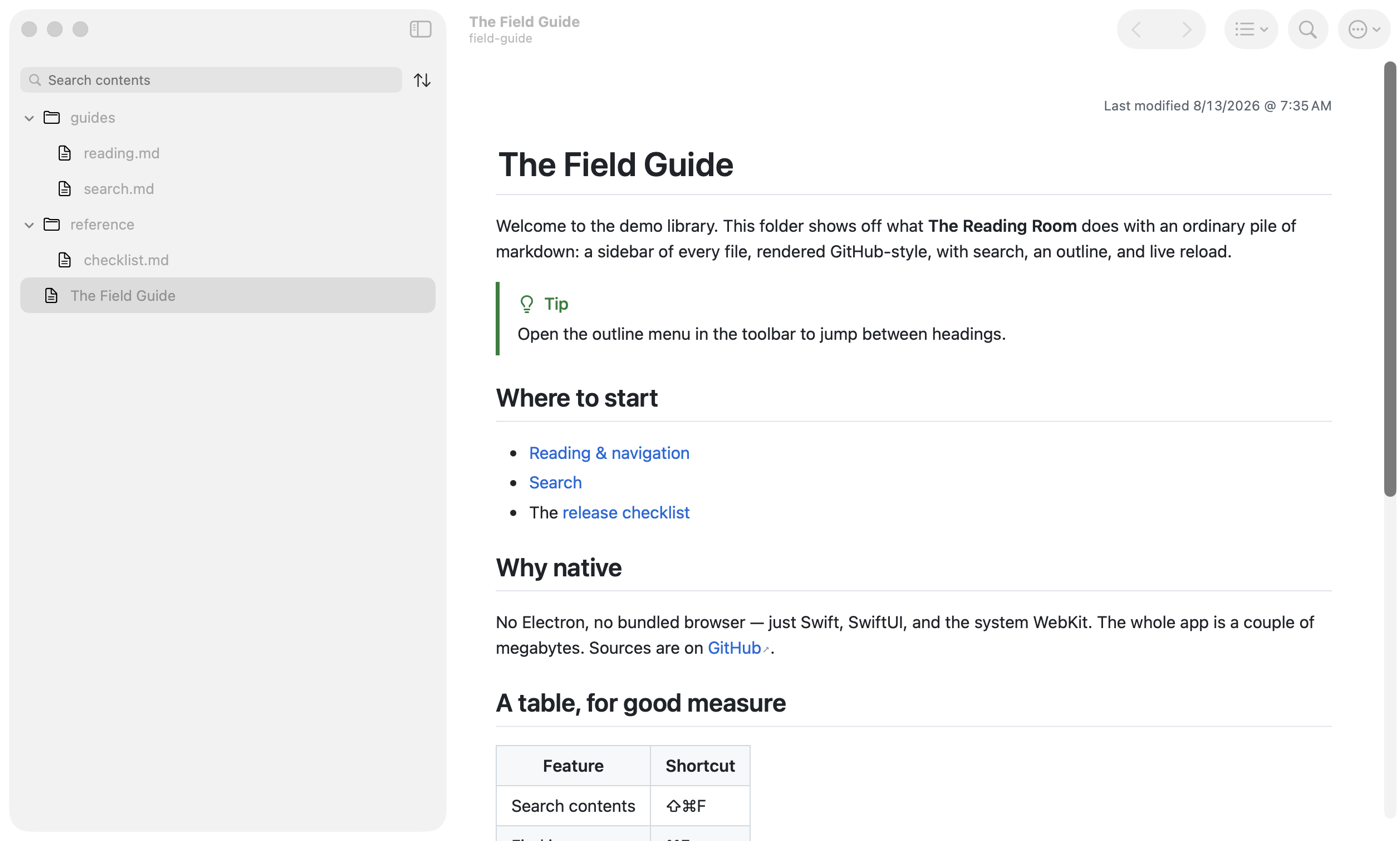
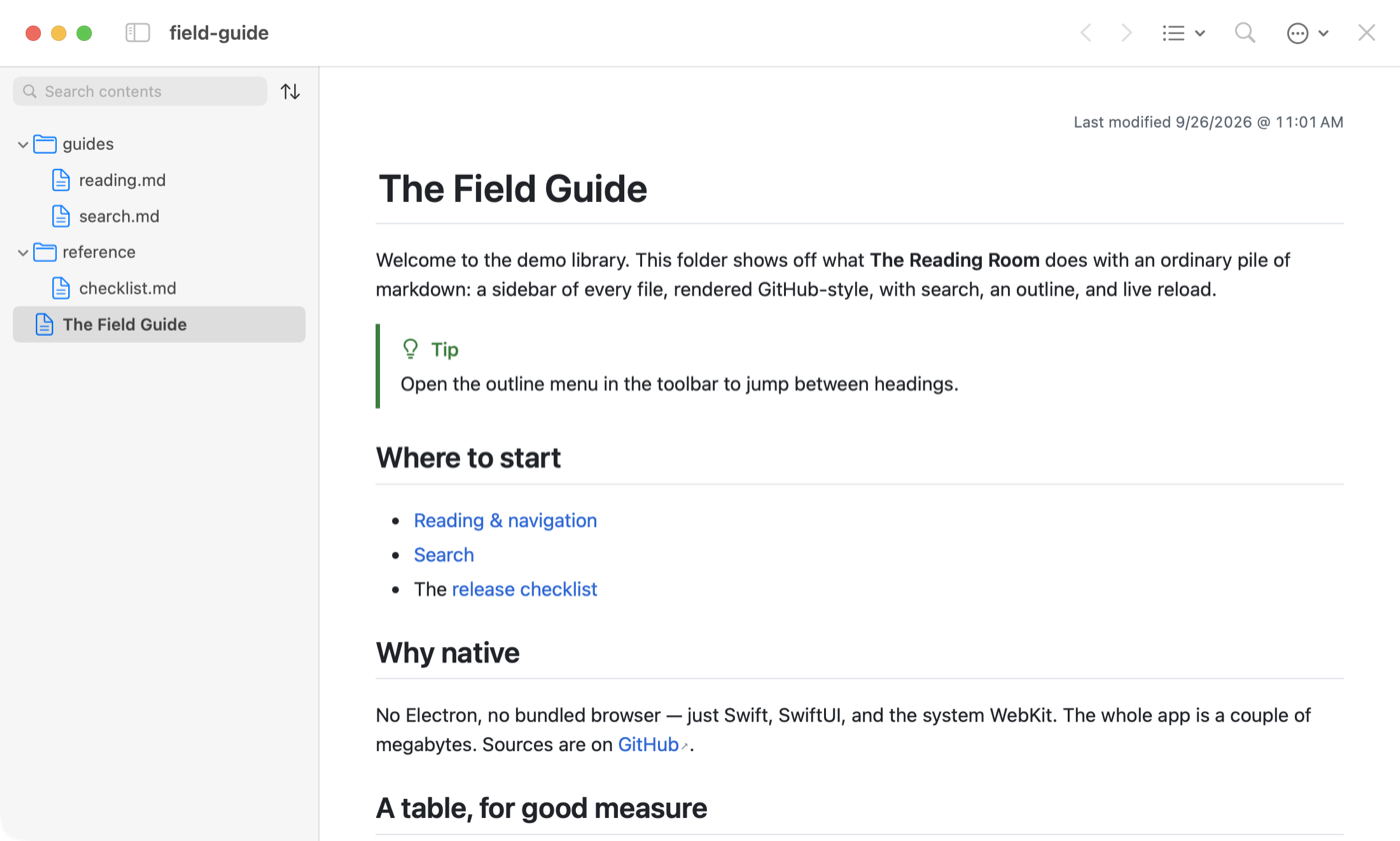
Title the window after its folder, across the full width
The title bar said "The Reading Room" (or went stale on the fallback) and
sat over the document alone, with the sidebar running up beside it. It
now names the folder the window has open, and the one title-bar row, with
the toolbar in it, spans the whole window; the sidebar starts below it.

NavigationSplitView always runs its sidebar up into the title bar, so the
window lays out the sidebar itself: a fixed-width column with the sidebar
material, a divider you drag to resize it (180–460 pt, remembered between
launches), and a toolbar button and View ▸ Hide Sidebar (⌃⌘S) to hide it.
HSplitView would have done too, but it ignores the sidebar's ideal width.

Back and forward join the other buttons on the right. The docs screenshot
shows the new title bar.

Bumps the bundle version to 1.3.

diff --git a/Sources/TheReadingRoom/ContentView.swift b/Sources/TheReadingRoom/ContentView.swift
@@ -5,16 +5,25 @@ import TheReadingRoomCore
 struct ContentView: View {
     @EnvironmentObject var model: AppModel
     @State private var isDropTargeted = false
+    /// Shared across windows, and remembered between launches.
+    @AppStorage("sidebarWidth") private var sidebarWidth = 250.0
 
     var body: some View {
-        NavigationSplitView {
-            Sidebar()
-                .navigationSplitViewColumnWidth(min: 180, ideal: 250, max: 460)
-        } detail: {
+        // Not a NavigationSplitView: that runs the sidebar up into the title bar,
+        // leaving the title and toolbar over the document alone. Laid out by
+        // hand, the title bar spans the whole window. (HSplitView would do the
+        // same, but it ignores the sidebar's ideal width.)
+        HStack(spacing: 0) {
+            if model.sidebarVisible {
+                Sidebar()
+                    .frame(width: sidebarWidth)
+                    .background(SidebarMaterial())
+                SidebarDivider(width: $sidebarWidth)
+            }
             detail
+                .frame(maxWidth: .infinity, maxHeight: .infinity)
         }
-        .navigationTitle(model.titleOfSelection ?? "The Reading Room")
-        .navigationSubtitle(model.subtitle)
+        .navigationTitle(model.root?.lastPathComponent ?? "")
         .toolbar { toolbarContent }
         .dropDestination(for: URL.self) { urls, _ in
             guard let url = urls.first else { return false }
@@ -91,7 +100,20 @@ struct ContentView: View {
 
     @ToolbarContentBuilder
     private var toolbarContent: some ToolbarContent {
+        ToolbarItemGroup(placement: .navigation) {
+            Button {
+                model.sidebarVisible.toggle()
+            } label: {
+                Image(systemName: "sidebar.left")
+            }
+            // Otherwise VoiceOver reads the symbol's name, "split view horizontally left".
+            .accessibilityLabel(model.sidebarVisible ? "Hide Sidebar" : "Show Sidebar")
+            .help(model.sidebarVisible ? "Hide Sidebar (⌃⌘S)" : "Show Sidebar (⌃⌘S)")
+        }
+
         ToolbarItemGroup {
+            Spacer()
+
             ControlGroup {
                 Button {
                     model.webViewController.goBack()
@@ -109,10 +131,6 @@ struct ContentView: View {
                 .disabled(!model.webViewController.canGoForward)
                 .help("Forward (⌘])")
             }
-        }
-
-        ToolbarItemGroup {
-            Spacer()
 
             Menu {
                 OutlineMenuItems(model: model)
@@ -160,6 +178,56 @@ struct ContentView: View {
             .disabled(model.selection == nil)
             .help("Close File")
         }
+    }
+}
+
+// MARK: - Sidebar background
+
+/// The translucent sidebar material. A NavigationSplitView supplies this on its
+/// own; the plain split view the window uses instead does not.
+private struct SidebarMaterial: NSViewRepresentable {
+    func makeNSView(context: Context) -> NSVisualEffectView {
+        let view = NSVisualEffectView()
+        view.material = .sidebar
+        view.blendingMode = .behindWindow
+        view.state = .followsWindowActiveState
+        return view
+    }
+
+    func updateNSView(_ view: NSVisualEffectView, context: Context) {}
+}
+
+/// The line between the sidebar and the document; drag it to resize the sidebar.
+private struct SidebarDivider: View {
+    @Binding var width: Double
+    @State private var widthAtDragStart: Double?
+
+    private static let widths = 180.0...460.0
+
+    var body: some View {
+        Divider()
+            .overlay {
+                // A grab area wider than the one-point line itself.
+                Color.clear
+                    .frame(width: 8)
+                    .contentShape(.rect)
+                    .onHover { inside in
+                        if inside { NSCursor.resizeLeftRight.push() } else { NSCursor.pop() }
+                    }
+                    .gesture(
+                        // Global coordinates, since the divider moves as it's dragged.
+                        DragGesture(minimumDistance: 1, coordinateSpace: .global)
+                            .onChanged { drag in
+                                let start = widthAtDragStart ?? width
+                                widthAtDragStart = start
+                                width = min(
+                                    max(start + drag.translation.width, Self.widths.lowerBound),
+                                    Self.widths.upperBound
+                                )
+                            }
+                            .onEnded { _ in widthAtDragStart = nil }
+                    )
+            }
     }
 }
 

diff --git a/Sources/TheReadingRoom/AppModel.swift b/Sources/TheReadingRoom/AppModel.swift
@@ -16,6 +16,7 @@ final class AppModel: ObservableObject {
     @Published var findText = ""
     /// Toggled to move keyboard focus into the sidebar search field.
     @Published var focusSearch = false
+    @Published var sidebarVisible = true
 
     /// Sidebar order. Shared across windows, and remembered between launches.
     @Published var sortOrder: FileTree.SortOrder = .alphabetical {
@@ -115,13 +116,6 @@ final class AppModel: ObservableObject {
         searchHitsByURL[url]?.snippet
     }
 
-    /// What to call the open file in the window title — its document title when
-    /// the filename is a generic one, otherwise the filename.
-    var titleOfSelection: String? {
-        guard let selection else { return nil }
-        return FileTree.node(for: selection, in: tree)?.label ?? selection.lastPathComponent
-    }
-
     /// A file's path relative to the opened folder, e.g. `guides/setup.md`.
     /// Falls back to the absolute path for anything outside the folder.
     func relativePath(of url: URL) -> String {
@@ -129,11 +123,6 @@ final class AppModel: ObservableObject {
         let rootPath = root.path.hasSuffix("/") ? root.path : root.path + "/"
         guard url.path.hasPrefix(rootPath) else { return url.path }
         return String(url.path.dropFirst(rootPath.count))
-    }
-
-    /// Path of the selected file relative to the root folder.
-    var relativePathOfSelection: String? {
-        selection.map { relativePath(of: $0) }
     }
 
     /// A `reading-room://` link that brings this file back up, in the folder
@@ -149,17 +138,6 @@ final class AppModel: ObservableObject {
     func copyToClipboard(_ text: String) {
         NSPasteboard.general.clearContents()
         NSPasteboard.general.setString(text, forType: .string)
-    }
-
-    /// Window subtitle: the folder holding the selected file, rooted at the
-    /// opened folder's name.
-    var subtitle: String {
-        guard let root else { return "" }
-        guard let relative = relativePathOfSelection else { return root.lastPathComponent }
-        let directory = (relative as NSString).deletingLastPathComponent
-        return directory.isEmpty
-            ? root.lastPathComponent
-            : "\(root.lastPathComponent)/\(directory)"
     }
 
     // MARK: - Opening folders

diff --git a/Sources/TheReadingRoom/App.swift b/Sources/TheReadingRoom/App.swift
@@ -158,6 +158,12 @@ private struct ViewerCommands: Commands {
         }
 
         CommandGroup(after: .sidebar) {
+            Button(model?.sidebarVisible == false ? "Show Sidebar" : "Hide Sidebar") {
+                model?.sidebarVisible.toggle()
+            }
+            .keyboardShortcut("s", modifiers: [.command, .control])
+            .disabled(model == nil)
+
             Divider()
 
             Picker("Sort Files By", selection: sortBinding) {

diff --git a/README.md b/README.md
@@ -58,6 +58,7 @@ build falls back to ad-hoc and everything except notifications still works.
 | Search file *contents* | type in the sidebar field (⇧⌘F), matches shown with a preview line. Files whose *name* or title match appear too |
 | Jump to a heading | the outline button in the toolbar lists the document's headings |
 | Sort the sidebar | the control beside the search field, or View ▸ Sort Files By |
+| Hide the sidebar | ⌃⌘S, or the sidebar button in the toolbar. Drag its edge to resize it; the width is remembered |
 | Follow a markdown link | click it — it opens in place, with ⌘[ / ⌘] for back and forward |
 | Open a web link | click it — it goes to your default browser |
 | Find in the page | ⌘F, then ⌘G / ⇧⌘G |
